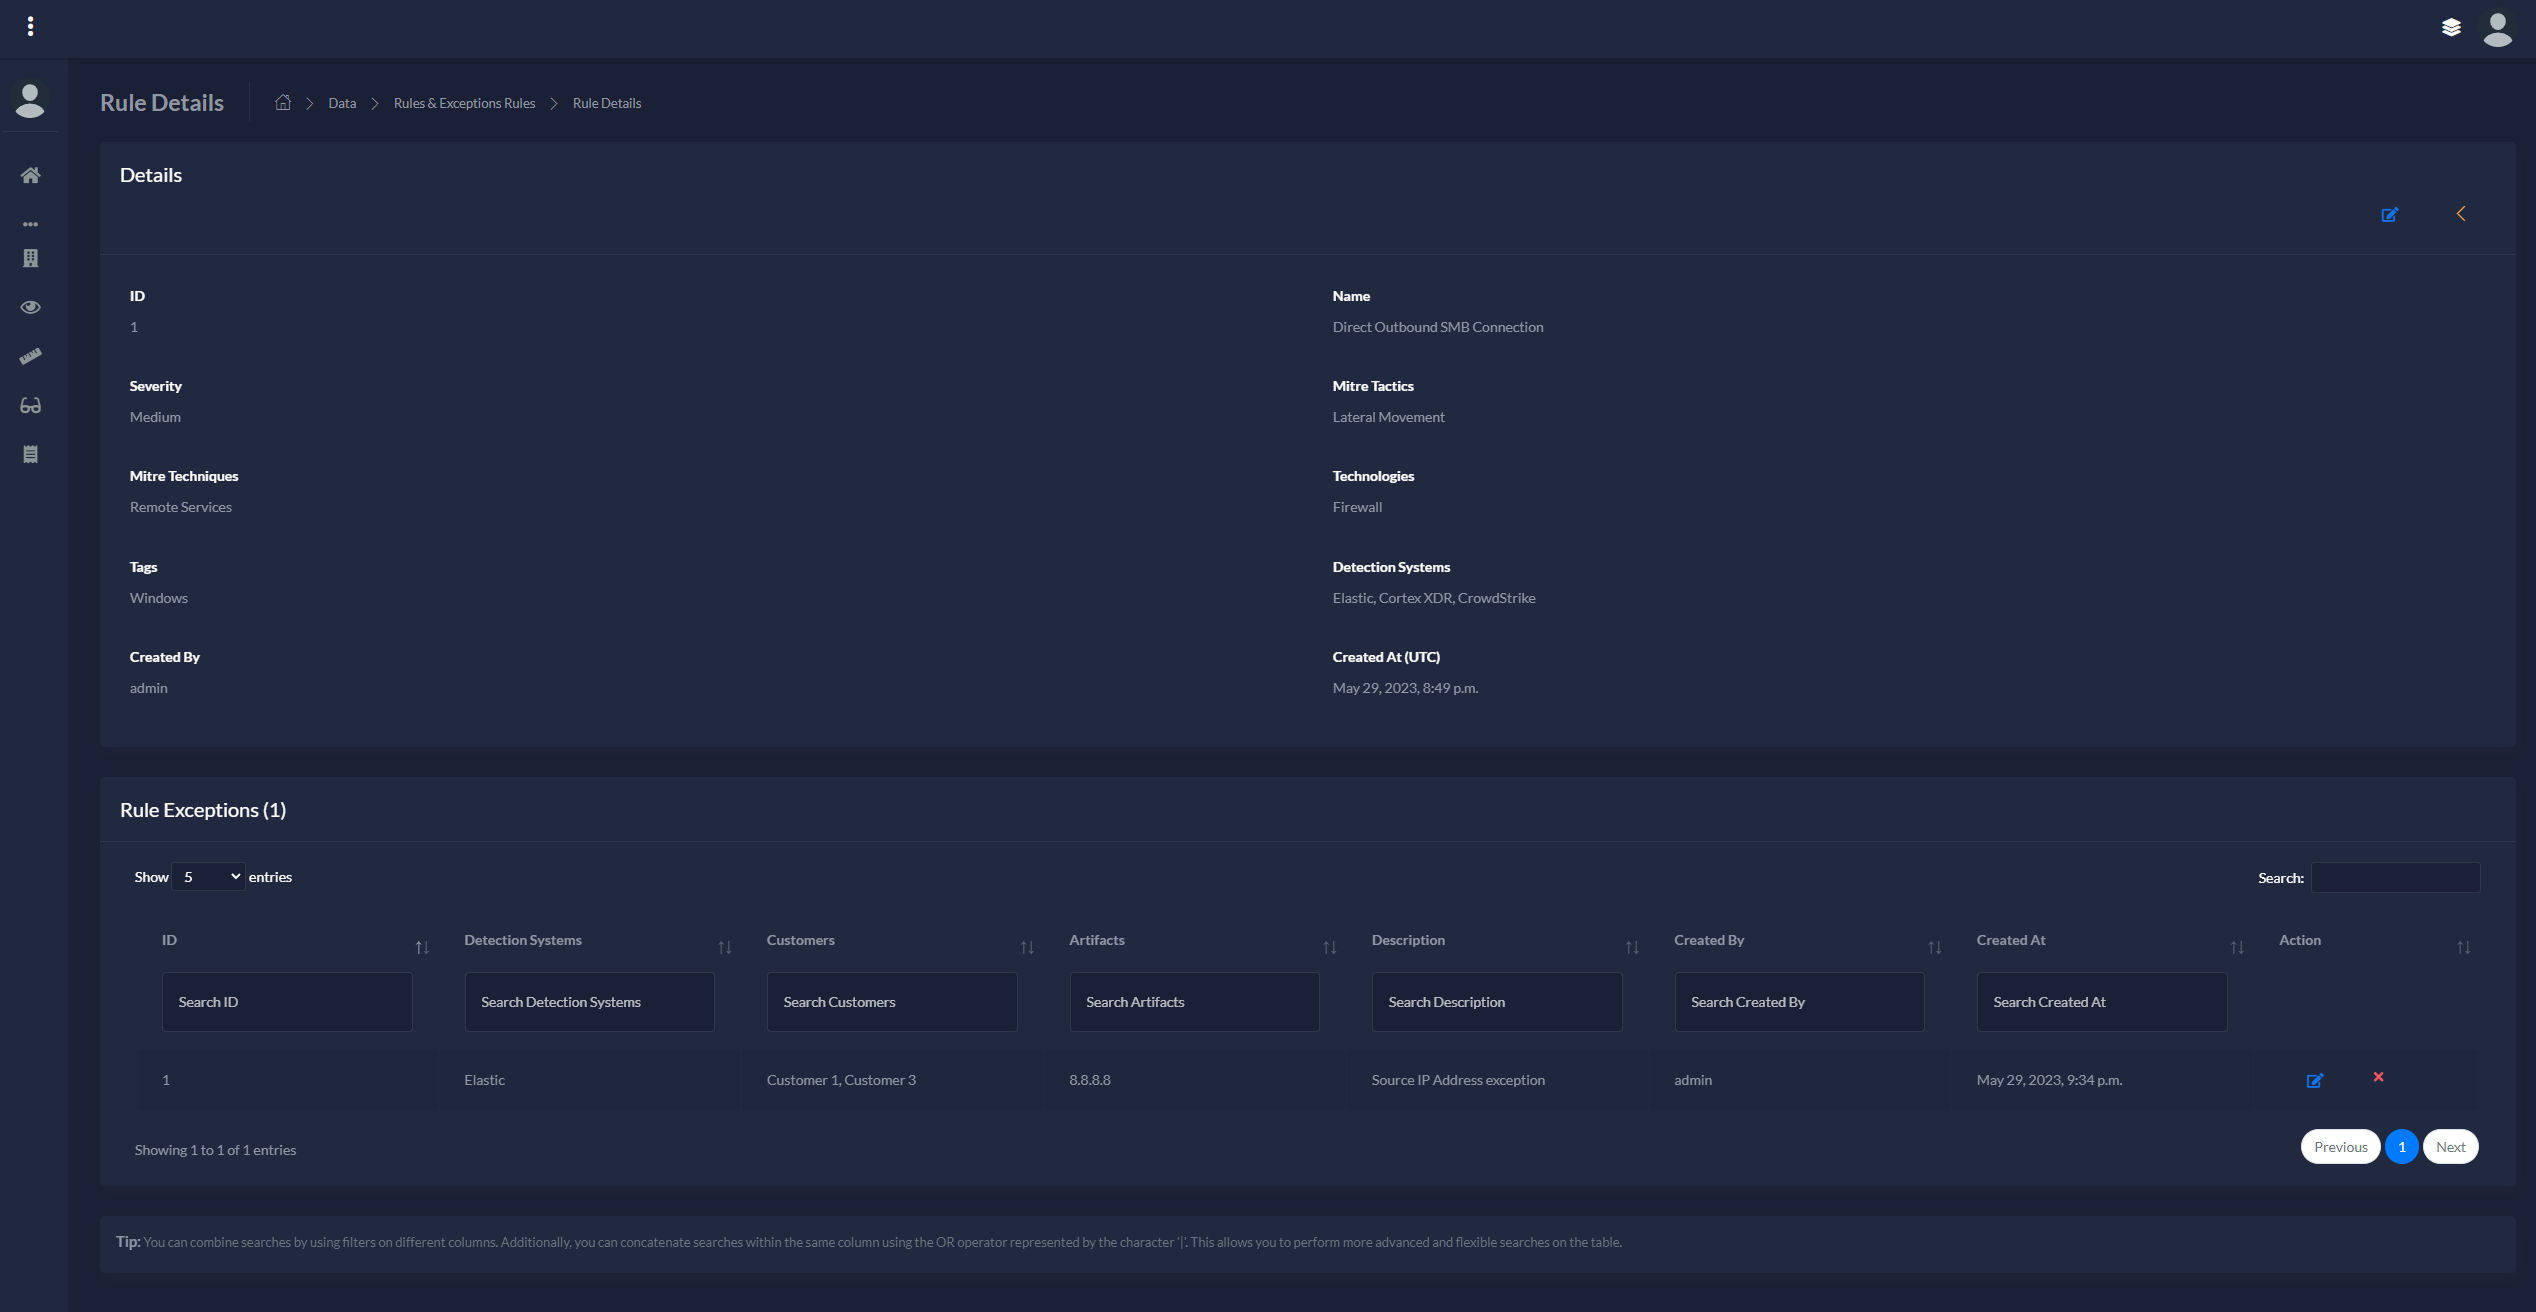
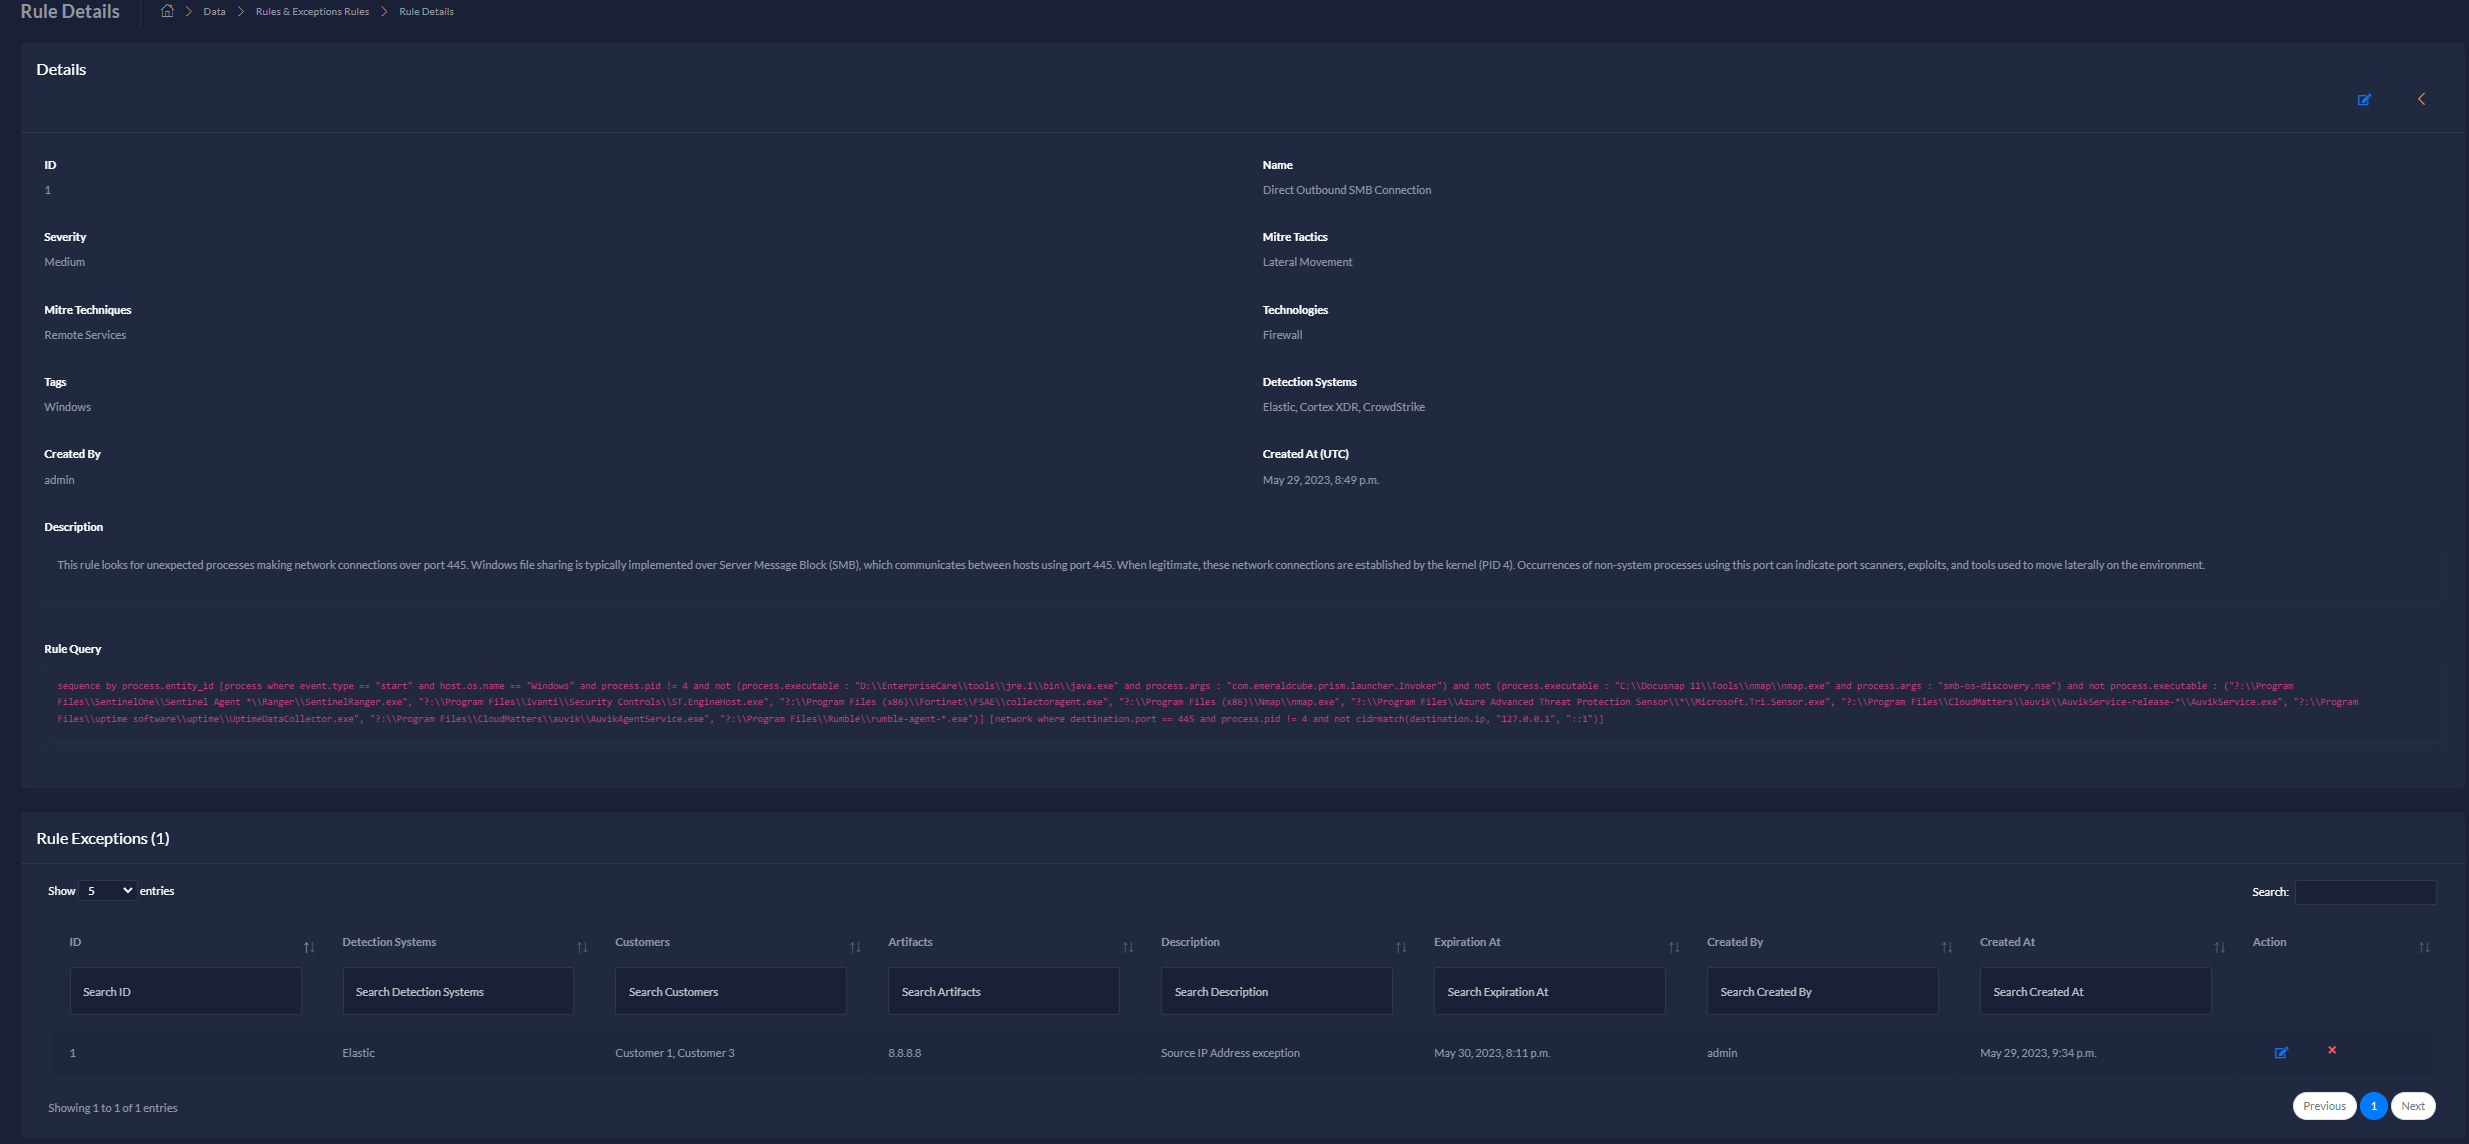
31/05/2023

diff --git a/apps/templates/home/rule_details.html b/apps/templates/home/rule_details.html
@@ -127,8 +127,34 @@
 									</div>
 								</div>
 							</div>
-							
-							
+							<div class="row">
+								<div class="col-md-12">
+									<div class="form-group">
+										<label class="control-label">Description</label>
+										<div class="card p-3">
+											<div class="d-flex">
+												<div>
+													<p class="form-control-static">{{ rule_details.description }}</p>
+												</div>
+											</div>
+										</div>
+									</div>
+								</div>
+							</div>
+							<div class="row">
+								<div class="col-md-12">
+									<div class="form-group">
+										<label class="control-label">Rule Query</label>
+										<div class="card p-3">
+											<div class="d-flex">
+												<div>
+													<code class="form-control-static">{{ rule_details.query }}</code>
+												</div>
+											</div>
+										</div>
+									</div>
+								</div>
+							</div>
 						</div>
 					</div>
 				</div>

diff --git a/apps/home/models.py b/apps/home/models.py
@@ -163,6 +163,8 @@ class Rule(models.Model):
     mitre_techniques = models.ManyToManyField(MitreTechnique, related_name='rules')
     technologies = models.ManyToManyField(Technologies, related_name='rules')
     created_at = models.DateTimeField(auto_now_add=True)
+    query = models.TextField(blank=True, null=True)
+    description = models.TextField(blank=True, null=True)
     created_by = models.ForeignKey(User, on_delete=models.SET_NULL, null=True, related_name='rules')
     modified_at = models.DateTimeField(auto_now=True)
     tags = models.ManyToManyField(Tag, related_name='rules',blank=True)
@@ -241,7 +243,7 @@ class Exceptions(models.Model):
     detection_system = models.ManyToManyField(DetectionSystem)
     customers = models.ManyToManyField(Customer)
     artifact = models.TextField()
-    description = models.TextField()
+    description = models.TextField(blank=True, null=True)
     expiration_at = models.DateTimeField(blank=True, null=True, default=None)
     created_at = models.DateTimeField(auto_now_add=True)
     modified_at = models.DateTimeField(auto_now=True)

diff --git a/apps/home/migrations/0005_auto_20230531_2342.py b/apps/home/migrations/0005_auto_20230531_2342.py
@@ -1,0 +1,35 @@
+# Generated by Django 3.2.16 on 2023-05-31 21:42
+
+from django.db import migrations, models
+import django.utils.timezone
+
+
+class Migration(migrations.Migration):
+
+    dependencies = [
+        ('home', '0004_auto_20230531_2340'),
+    ]
+
+    operations = [
+        migrations.AddField(
+            model_name='historicalrule',
+            name='description',
+            field=models.TextField(blank=True, null=True),
+        ),
+        migrations.AddField(
+            model_name='rule',
+            name='description',
+            field=models.TextField(blank=True, null=True),
+        ),
+        migrations.AlterField(
+            model_name='exceptions',
+            name='artifact',
+            field=models.TextField(default=django.utils.timezone.now),
+            preserve_default=False,
+        ),
+        migrations.AlterField(
+            model_name='exceptions',
+            name='description',
+            field=models.TextField(blank=True, null=True),
+        ),
+    ]

diff --git a/core/settings.py b/core/settings.py
@@ -19,7 +19,7 @@ DEFAULT_AUTO_FIELD = 'django.db.models.BigAutoField'
 environ.Env.read_env(os.path.join(BASE_DIR, '.env'))
 
 # SECURITY WARNING: keep the secret key used in production secret!
-SECRET_KEY = env('SECRET_KEY', default='#CHANGE#')
+SECRET_KEY = env('SECRET_KEY', default='Yp3s6v9y$B&E)H@McQfTjWnZq4t7w!z%')
 
 # SECURITY WARNING: don't run with debug turned on in production!
 DEBUG = env('DEBUG')
@@ -88,9 +88,9 @@ WSGI_APPLICATION = 'core.wsgi.application'
 DATABASES = {
     'default': {
         'ENGINE': 'django.db.backends.postgresql_psycopg2',
-        'NAME': '#CHANGE',
-        'USER': '#CHANGE',
-        'PASSWORD': '#CHANGE',
+        'NAME': 'Ryuk',
+        'USER': 'Ryuk',
+        'PASSWORD': 'g8D8Hw3nTbks3yMa49zENA7Ues3FkkF',
         'HOST': 'localhost',
         'PORT': '5432',
     }

diff --git a/apps/home/migrations/0004_auto_20230531_2340.py b/apps/home/migrations/0004_auto_20230531_2340.py
@@ -1,0 +1,28 @@
+# Generated by Django 3.2.16 on 2023-05-31 21:40
+
+from django.db import migrations, models
+
+
+class Migration(migrations.Migration):
+
+    dependencies = [
+        ('home', '0003_exceptions_expiration_at'),
+    ]
+
+    operations = [
+        migrations.AddField(
+            model_name='historicalrule',
+            name='query',
+            field=models.TextField(blank=True, null=True),
+        ),
+        migrations.AddField(
+            model_name='rule',
+            name='query',
+            field=models.TextField(blank=True, null=True),
+        ),
+        migrations.AlterField(
+            model_name='exceptions',
+            name='artifact',
+            field=models.TextField(blank=True, null=True),
+        ),
+    ]

diff --git a/apps/home/DatabaseManager.py b/apps/home/DatabaseManager.py
@@ -113,6 +113,8 @@ class DatabaseManager:
                 'technologies': list(rule.technologies.values_list('name', flat=True)),
                 'tags': list(rule.tags.values_list('name', flat=True)),
                 'detection_systems': list(rule.detection_systems.values_list('name', flat=True)),
+                'query': rule.query,
+                'description': rule.description,
                 'created_by': rule.created_by.username,
                 'created_at': rule.created_at,
             }
